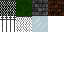
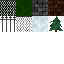
'props'/sprites in map file (todo: make them entities)

Changed region(s): [[0.5, 0.25, 1.0, 0.5], [0.5625, 0.25, 0.5938, 0.2812]]

diff --git a/tools/tmx/tmx.js b/tools/tmx/tmx.js
@@ -3,7 +3,7 @@ import path from "path";
 import { XMLParser } from "fast-xml-parser";
 
 class MapFile {
-  constructor(spr, sky, width, height, data, walls)
+  constructor(spr, sky, width, height, data, walls, props)
   {
     this.spr = spr;
     this.sky = sky;
@@ -11,6 +11,7 @@ class MapFile {
     this.height = height;
     this.data = data;
     this.walls = walls;
+    this.props = props;
   }
 };
 
@@ -18,6 +19,15 @@ class Wall {
   constructor(tile, xPos, yPos)
   {
     this.tile = tile;
+    this.xPos = xPos;
+    this.yPos = yPos;
+  }
+};
+
+class Prop {
+  constructor(spriteID, xPos, yPos)
+  {
+    this.spriteID = spriteID;
     this.xPos = xPos;
     this.yPos = yPos;
   }
@@ -58,6 +68,24 @@ function tmxToMap(tmxPath)
   
   const walls = [];
   
+  const groups = [].concat(tmxMap.map.objectgroup);
+  
+  const propGroup = groups.find(x => x.name == "props");
+  
+  const props = [];
+  
+  if (propGroup) {
+    const mapProps = [].concat(propGroup.object);
+    
+    for (const prop of mapProps) {
+      const id = parseInt(prop.gid) - 1;
+      const xPos = parseFloat(prop.x) / 10.0;
+      const yPos = parseFloat(prop.y) / 10.0;
+      
+      props.push(new Prop(id, xPos, yPos));
+    }
+  }
+  
   for (let y = 0; y < baseHeight; y++) {
     for (let x = 0; x < baseWidth; x++) {
       const tile = wallData[x + y * baseHeight];
@@ -74,7 +102,7 @@ function tmxToMap(tmxPath)
   
   const spr = path.parse(tmxMap.map.tileset.source).name;
   
-  return new MapFile(spr, sky, baseWidth, baseHeight, baseData, walls);
+  return new MapFile(spr, sky, baseWidth, baseHeight, baseData, walls, props);
 }
 
 function main()

diff --git a/src/game/map.js b/src/game/map.js
@@ -18,7 +18,7 @@ export class Map {
   static FLIPPED_VERTICALLY_FLAG    = 0x40000000;
   static FLIPPED_DIAGONALLY_FLAG    = 0x20000000;
   
-  constructor(spriteMap, sky, width, height, walls)
+  constructor(spriteMap, sky, width, height, walls, props)
   {
     this.spriteMap = spriteMap;
     this.sky = sky;
@@ -26,12 +26,18 @@ export class Map {
     this.height = height;
     this.walls = walls;
     this.tiles = new Uint32Array(this.width * this.height);
+    this.props = props;
     this.voidTile = 0;
   }
   
   getWalls()
   {
     return this.walls;
+  }
+  
+  getProps()
+  {
+    return this.props;
   }
   
   getSpriteMap()
@@ -114,7 +120,7 @@ export function mapLoad(mapPath, onLoad)
   fileLoad("assets/map/" + mapPath + ".map", (mapFileText) => {
     const mapFile = JSON.parse(mapFileText);
     spriteMapLoad(mapFile.spr, (spriteMap) => {
-      const map = new Map(spriteMap, mapFile.sky, mapFile.width, mapFile.height, mapFile.walls);
+      const map = new Map(spriteMap, mapFile.sky, mapFile.width, mapFile.height, mapFile.walls, mapFile.props);
       
       for (let i = 0; i < mapFile.width * mapFile.height; i++)
         map.tiles[i] = mapFile.data[i];

diff --git a/src/gfx/renderer.js b/src/gfx/renderer.js
@@ -68,6 +68,12 @@ export class Renderer {
     
     for (const mapWall of this.mapWalls)
       this.renderWall(mapWall.tex, mapWall.start, mapWall.end);
+    
+    for (const prop of this.map.getProps()) {
+      this.renderSprite(
+        this.map.getSpriteMap().getSprite(prop.spriteID).tex,
+        new Vector3(prop.xPos, prop.yPos, 0.0));
+    }
   }
   
   renderEntities(entities)
@@ -79,10 +85,7 @@ export class Renderer {
       if (entity.spriteID == -1)
         continue;
       
-      this.renderSprite(
-        this.entitySpriteMap.getSprite(entity.spriteID).tex,
-        entity.pos
-      );
+      this.renderSprite(this.entitySpriteMap.getSprite(entity.spriteID).tex, entity.pos);
     }
   }
   
